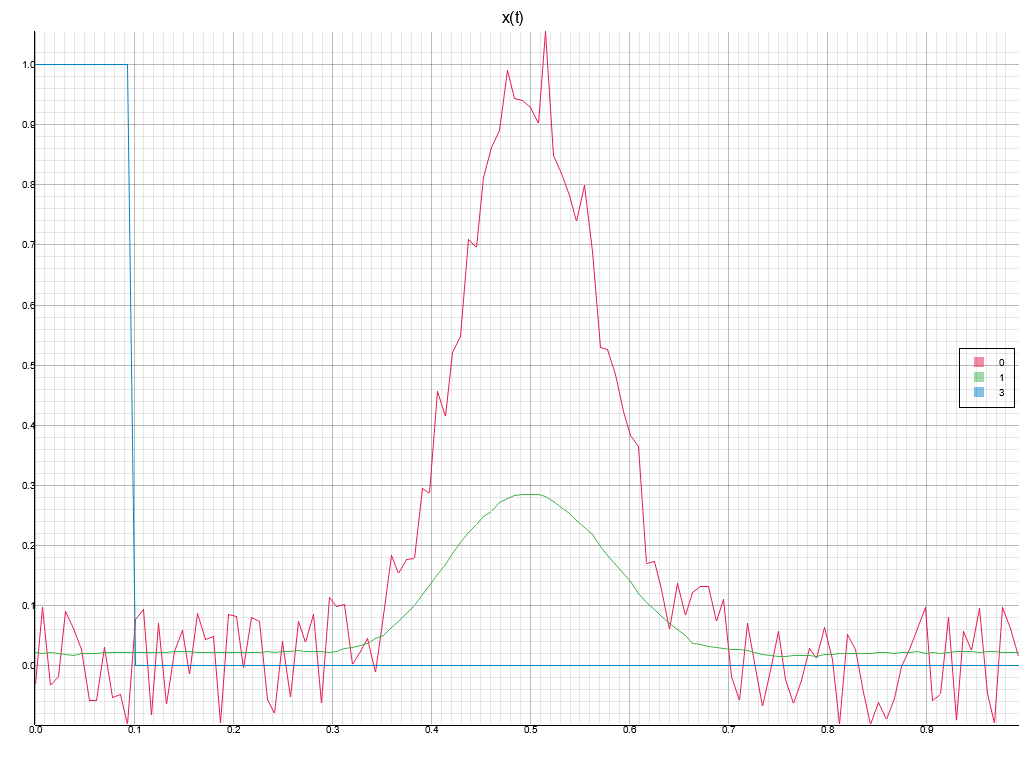
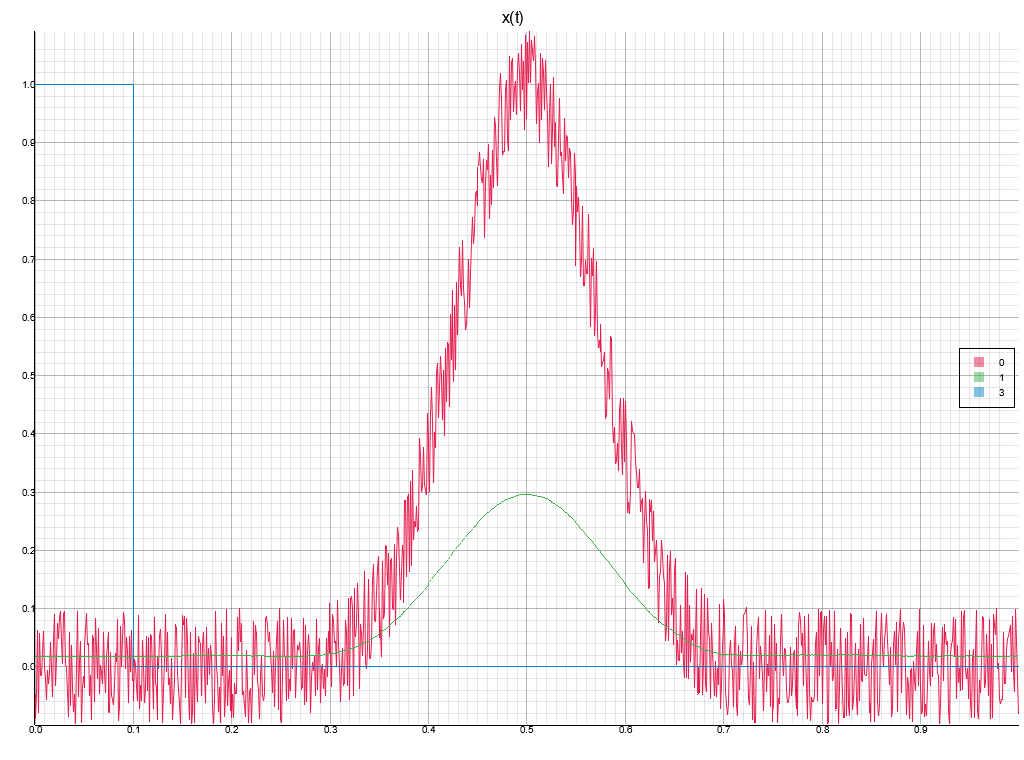
Run test

Changed region(s): [[0.0, 0.0303, 1.0, 0.9684], [0.5938, 0.9382, 0.625, 0.9684]]

diff --git a/src/analysis/movingrms.rs b/src/analysis/movingrms.rs
@@ -120,7 +120,7 @@ mod test
     #[test]
     fn test()
     {
-        const N: usize = 128;
+        const N: usize = 1024;
 
         let t: [_; N] = (0.0..1.0).linspace_array();
 
